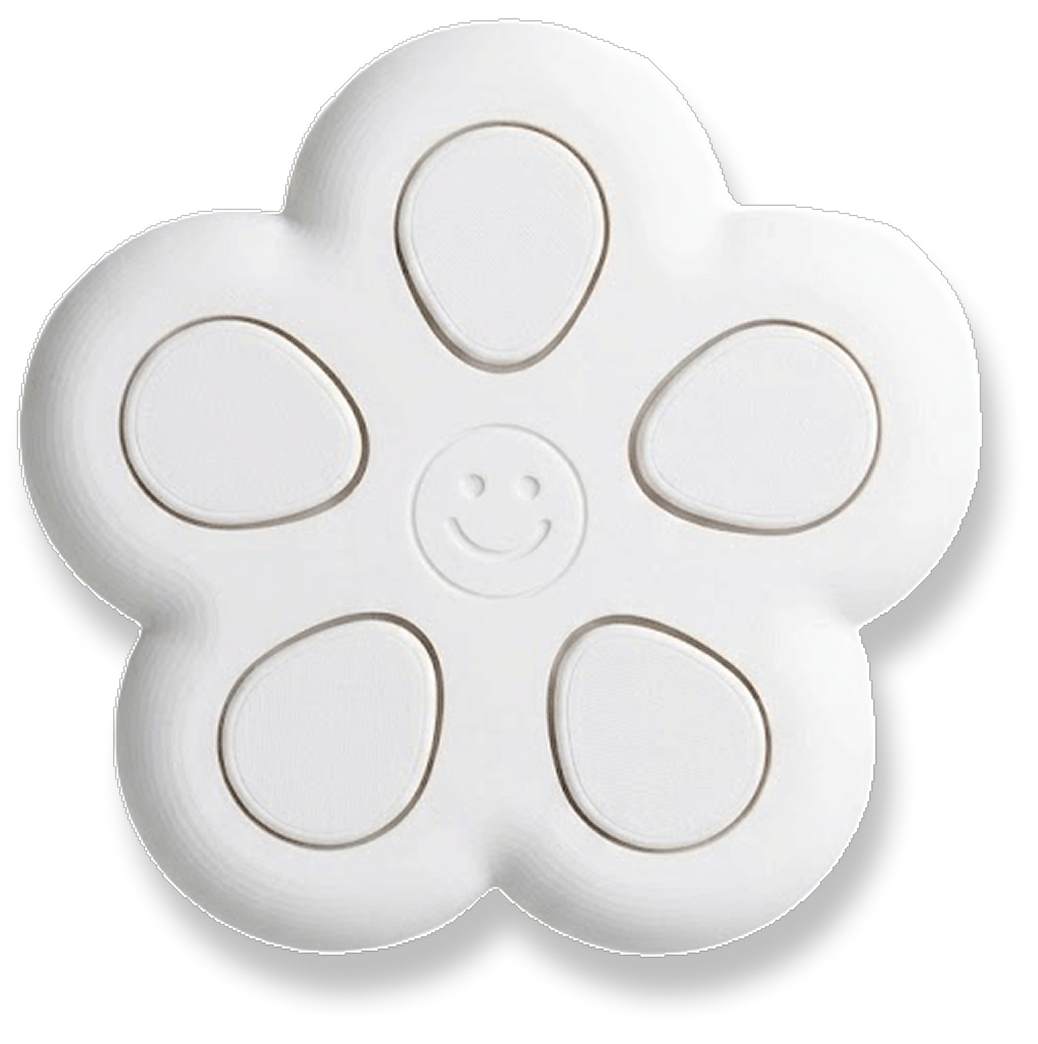
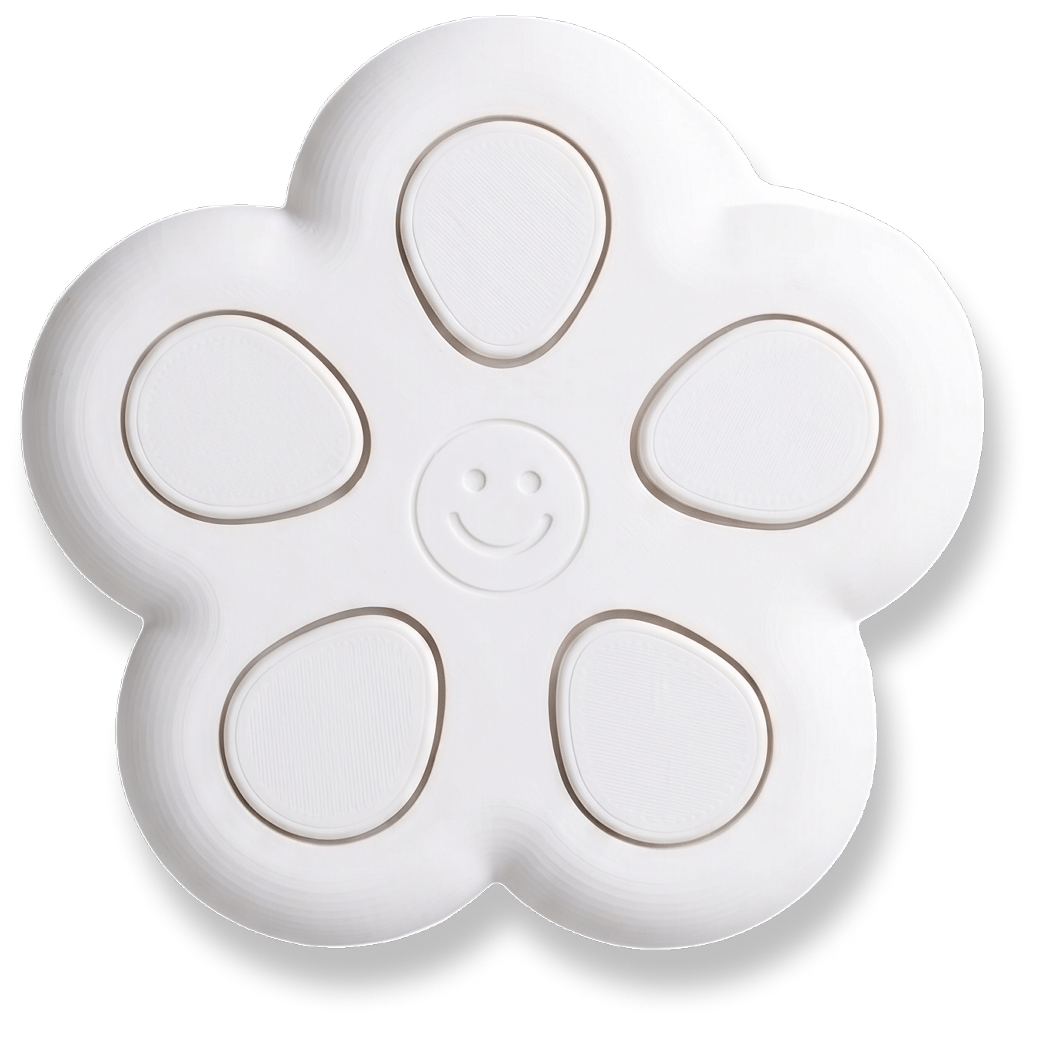
test nav

diff --git a/emotions.html b/emotions.html
@@ -267,30 +267,98 @@ try {
   }
 } catch(e) {}
 </script>
+/* ── Init ── */
+initFilterRow();
+renderJournal();
+initNav('journal');
+</script>
 
-<!-- Radial nav -->
 <script>
+/* ── Inlined nav.js ── */
 function initNav(activePage) {
   const style = document.createElement('style');
   style.textContent = `
-    .radial-nav-wrap { position:fixed;bottom:0;left:50%;transform:translateX(-50%);width:100%;z-index:1000;pointer-events:none;display:flex;align-items:flex-end;justify-content:center;padding-bottom:36px; }
-    .radial-scene { position:relative;width:120px;height:120px;pointer-events:all;transform:scale(0.6);transform-origin:center bottom; }
-    .r-circle { position:absolute;border-radius:50%;background:#000;display:flex;align-items:center;justify-content:center;cursor:pointer;transition:transform .15s,background .15s,box-shadow .15s;box-shadow:0 4px 18px rgba(0,0,0,0.32); }
-    .r-circle:hover { background:#1a1a1a; }
-    .r-center { width:120px;height:120px;top:0;left:0;z-index:10; }
-    .r-center svg { width:52%;height:52%; }
-    .r-orbit { width:80px;height:80px;top:20px;left:20px;opacity:0;pointer-events:none;transform:scale(0.4);transition:opacity .22s ease,transform .3s cubic-bezier(.34,1.56,.64,1); }
-    .r-orbit svg { width:40%;height:40%; }
-    .radial-scene.open .r-orbit { opacity:1;pointer-events:all;transform:translate(var(--ox),var(--oy)) scale(1); }
-    .radial-scene.open .r-orbit:nth-child(1){transition-delay:.02s}
-    .radial-scene.open .r-orbit:nth-child(2){transition-delay:.05s}
-    .radial-scene.open .r-orbit:nth-child(3){transition-delay:.08s}
-    .radial-scene.open .r-orbit:nth-child(4){transition-delay:.11s}
-    .radial-scene.open .r-orbit:nth-child(5){transition-delay:.14s}
-    .r-orbit.active-page { background:#222;box-shadow:0 0 0 3px #77DEF8,0 4px 18px rgba(0,0,0,0.32); }
-    .toast { position:fixed;bottom:120px;left:50%;transform:translateX(-50%);background:#1a1a1a;color:#fff;padding:10px 20px;border-radius:20px;font-size:14px;font-family:'Roboto',sans-serif;opacity:0;pointer-events:none;transition:opacity 0.3s;z-index:9999; }
-    .toast.show { opacity:1; }
+    .radial-nav-wrap {
+      position: fixed;
+      bottom: 0;
+      left: 50%;
+      transform: translateX(-50%);
+      width: 100%;
+      z-index: 1000;
+      pointer-events: none;
+      display: flex;
+      align-items: flex-end;
+      justify-content: center;
+      padding-bottom: 100px;
+    }
+    .radial-scene {
+      position: relative;
+      width: 120px;
+      height: 120px;
+      pointer-events: all;
+      transform: scale(0.6);
+      transform-origin: center bottom;
+    }
+    .r-circle {
+      position: absolute;
+      border-radius: 50%;
+      background: #000;
+      display: flex;
+      align-items: center;
+      justify-content: center;
+      cursor: pointer;
+      transition: transform .15s, background .15s, box-shadow .15s;
+      box-shadow: 0 4px 18px rgba(0,0,0,0.32);
+    }
+    .r-circle:hover { background: #1a1a1a; box-shadow: 0 6px 24px rgba(0,0,0,0.45); }
+    .r-center {
+      width: 120px; height: 120px;
+      top: 0; left: 0; z-index: 10;
+    }
+    .r-center svg { width: 52%; height: 52%; }
+    .r-orbit {
+      width: 80px; height: 80px;
+      top: 20px; left: 20px;
+      opacity: 0;
+      pointer-events: none;
+      transform: scale(0.4);
+      transition: opacity .22s ease, transform .3s cubic-bezier(.34,1.56,.64,1);
+    }
+    .r-orbit svg { width: 40%; height: 40%; }
+    .radial-scene.open .r-orbit {
+      opacity: 1;
+      pointer-events: all;
+      transform: translate(var(--ox), var(--oy)) scale(1);
+    }
+    .radial-scene.open .r-orbit:nth-child(1) { transition-delay: .02s; }
+    .radial-scene.open .r-orbit:nth-child(2) { transition-delay: .05s; }
+    .radial-scene.open .r-orbit:nth-child(3) { transition-delay: .08s; }
+    .radial-scene.open .r-orbit:nth-child(4) { transition-delay: .11s; }
+    .radial-scene.open .r-orbit:nth-child(5) { transition-delay: .14s; }
+    .r-orbit .r-label {
+      position: absolute;
+      bottom: -22px; left: 50%;
+      transform: translateX(-50%);
+      font-size: 10px; font-weight: 600;
+      color: #333; white-space: nowrap;
+      pointer-events: none; opacity: 0;
+      transition: opacity .15s;
+      font-family: 'Roboto', sans-serif;
+    }
+    .radial-scene.open .r-orbit .r-label { opacity: 1; transition-delay: .2s; }
+    .r-orbit.active-page {
+      background: #222;
+      box-shadow: 0 0 0 3px #77DEF8, 0 4px 18px rgba(0,0,0,0.32);
+    }
+    .toast {
+      position: fixed; bottom: 120px; left: 50%; transform: translateX(-50%);
+      background: #1a1a1a; color: #fff; padding: 10px 20px; border-radius: 20px;
+      font-size: 14px; font-family: Roboto, sans-serif;
+      opacity: 0; pointer-events: none; transition: opacity 0.3s; z-index: 9999;
+    }
+    .toast.show { opacity: 1; }
   `;
+  
   document.head.appendChild(style);
   const wrap = document.createElement('div');
   wrap.className = 'radial-nav-wrap';
@@ -363,6 +431,9 @@ const saved = localStorage.getItem('feel_device_name');
 if (saved) document.getElementById('device-name-text').textContent = saved;
 
 
+</script>
+<script src="nav.js"></script>
+<script>
 initNav('emotions');
 </script>
 

diff --git a/profile.html b/profile.html
@@ -254,7 +254,7 @@
 function initNav(activePage) {
   const style = document.createElement('style');
   style.textContent = `
-    .radial-nav-wrap { position:fixed;bottom:0;left:50%;transform:translateX(-50%);width:100%;z-index:1000;pointer-events:none;display:flex;align-items:flex-end;justify-content:center;padding-bottom:36px; }
+    .radial-nav-wrap { position:fixed;bottom:0;left:50%;transform:translateX(-50%);width:100%;z-index:1000;pointer-events:none;display:flex;align-items:flex-end;justify-content:center;padding-bottom:100px; }
     .radial-scene { position:relative;width:120px;height:120px;pointer-events:all;transform:scale(0.6);transform-origin:center bottom; }
     .r-circle { position:absolute;border-radius:50%;background:#000;display:flex;align-items:center;justify-content:center;cursor:pointer;transition:transform .15s,background .15s,box-shadow .15s;box-shadow:0 4px 18px rgba(0,0,0,0.32); }
     .r-circle:hover { background:#1a1a1a; }

diff --git a/journal.html b/journal.html
@@ -87,6 +87,7 @@
     gap: 8px;
     box-shadow: 0 4px 20px rgba(0,0,0,0.25);
     transition: transform 0.15s, box-shadow 0.15s;
+    
   }
   .add-entry-fab:hover { transform: translateY(-2px); box-shadow: 0 6px 24px rgba(0,0,0,0.3); }
   .add-entry-fab:active { transform: translateY(0); }
@@ -1333,7 +1334,7 @@ function initNav(activePage) {
       display: flex;
       align-items: flex-end;
       justify-content: center;
-      padding-bottom: 36px;
+      padding-bottom: 100px;
     }
     .radial-scene {
       position: relative;
